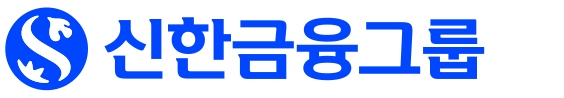
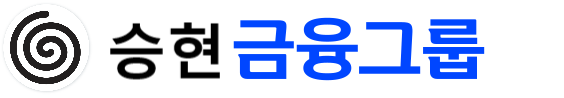
a
a

Changed region(s): [[0.0, 0.0612, 0.422, 0.949]]

diff --git a/_includes/footer.html b/_includes/footer.html
@@ -20,5 +20,5 @@
 </div>
 -->
 
-<div class="page__footer-copyright">&copy; {{ site.time | date: '%Y' }}. Shinhan Financial Group. All Rights Reserved.</div>
+<div class="page__footer-copyright">&copy; {{ site.time | date: '%Y' }}. Seunghyun Financial Group. All Rights Reserved.</div>
 

diff --git a/_pages/about.md b/_pages/about.md
@@ -6,4 +6,4 @@ author_profile: false
 published: true
 ---
 
-<p align="center">신한 오픈소스 외부 포털에 대한 소개</p>
+<p align="center">오픈소스 외부 포털에 대한 소개</p>
